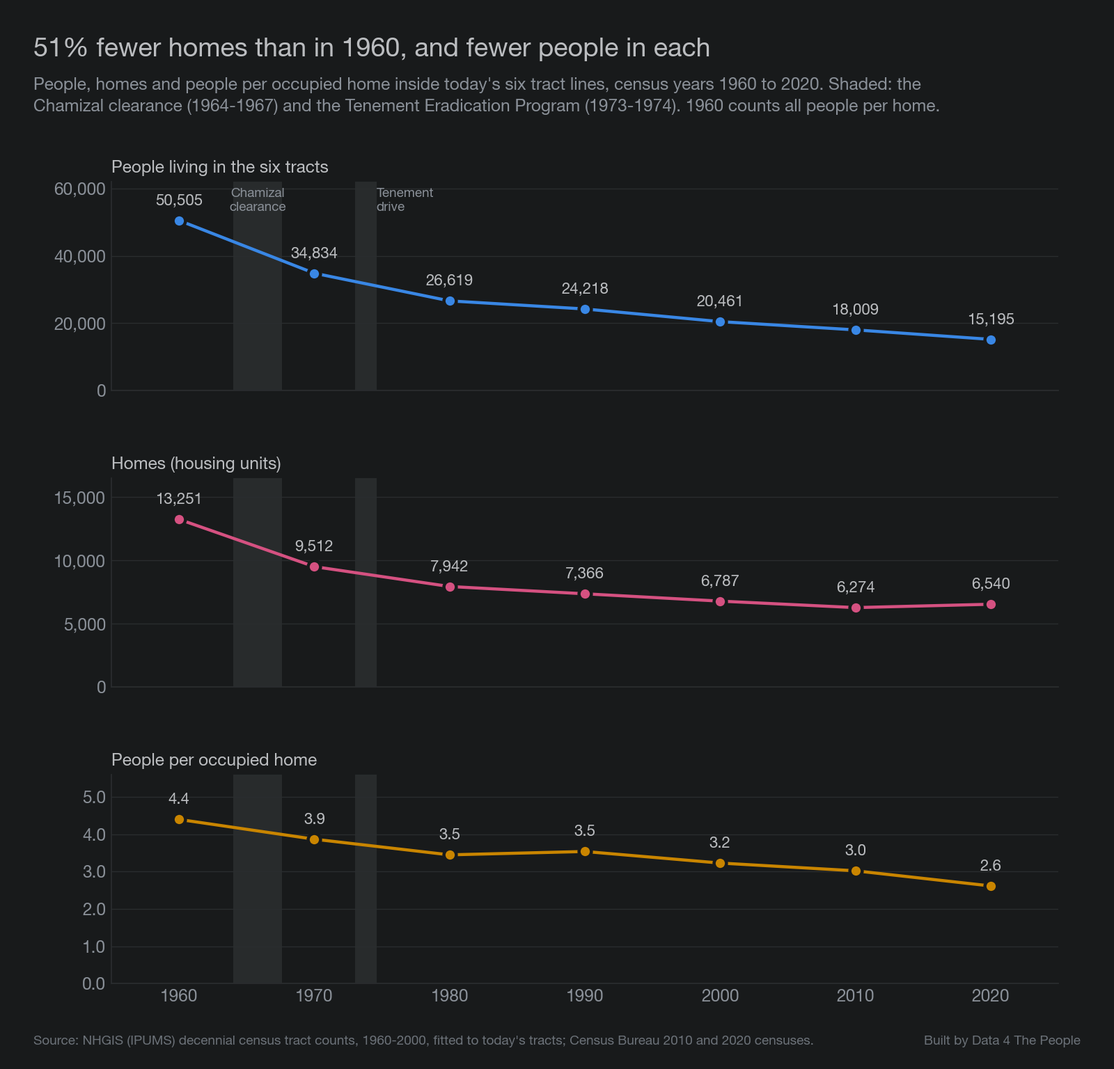
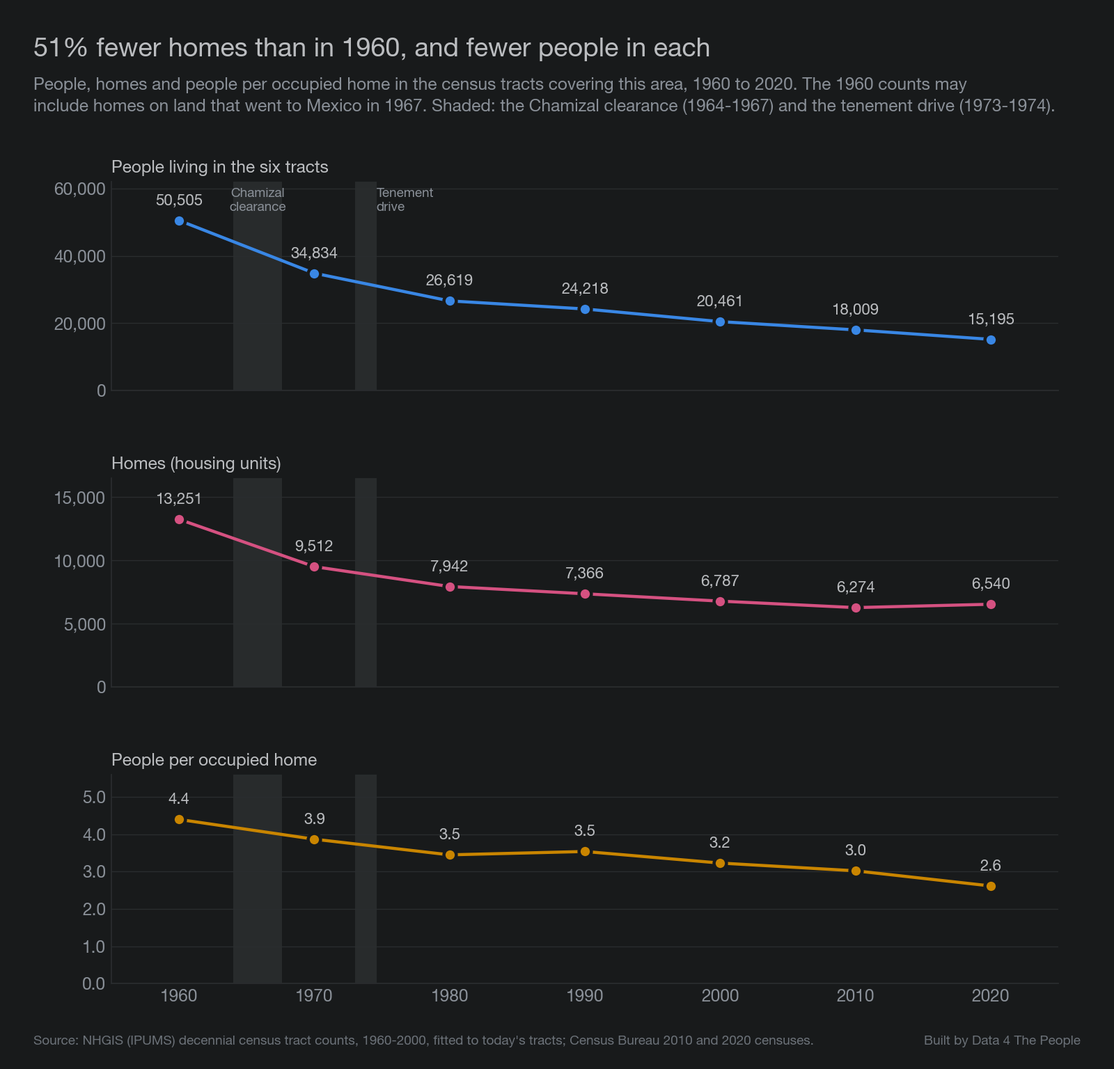
spotlight-el-segundo-barrio: apply independent tie-out fixes (59% U.S.-born poverty, proportion MOEs, 1960 border caveat, citations, three overstated claims, wording)

Changed region(s): [[0.0312, 0.0625, 0.875, 0.125], [0.9062, 0.0938, 0.9375, 0.125]]

diff --git a/scripts/99y_charts_elsegundo.py b/scripts/99y_charts_elsegundo.py
@@ -46,8 +46,8 @@ axs[0].annotate("Tenement\ndrive", (1974.6, 62000 * 0.97), ha="left", va="top", 
 axs[2].set_xlim(1955, 2025); axs[2].set_xticks([1960, 1970, 1980, 1990, 2000, 2010, 2020])
 ch_h = 100 * (1 - homes[2020] / homes[1960])
 titleblock(fig, f"{ch_h:.0f}% fewer homes than in 1960, and fewer people in each",
-           "People, homes and people per occupied home inside today's six tract lines, census years 1960 to 2020. Shaded: the\n"
-           "Chamizal clearance (1964-1967) and the Tenement Eradication Program (1973-1974). 1960 counts all people per home.")
+           "People, homes and people per occupied home in the census tracts covering this area, 1960 to 2020. The 1960 counts may\n"
+           "include homes on land that went to Mexico in 1967. Shaded: the Chamizal clearance (1964-1967) and the tenement drive (1973-1974).")
 credit(fig, "Source: NHGIS (IPUMS) decennial census tract counts, 1960-2000, fitted to today's tracts; Census Bureau 2010 and 2020 censuses.")
 fig.savefig(OUT / "02-people-homes.png"); plt.close(fig)
 
@@ -71,7 +71,8 @@ credit(fig, "Source: NHGIS (IPUMS) decennial census tract counts, 1960-2000, fit
 fig.savefig(OUT / "03b-crowding.png"); plt.close(fig)
 
 # 03c: poverty by birthplace
-pv = R[(R.period == "2020-2024") & R.measure.isin(["poverty_us_born_pct", "poverty_foreign_born_pct"])].set_index(["area", "measure"]).value
+pvr = R[(R.period == "2020-2024") & R.measure.isin(["poverty_us_born_pct", "poverty_foreign_born_pct"])].set_index(["area", "measure"])
+pv, pm = pvr.value, pvr.moe_pts
 fig, ax = plt.subplots(figsize=(10, 5.6)); fig.subplots_adjust(left=0.08, right=0.97, top=0.74, bottom=0.14)
 grp = [(ES, "El Segundo Barrio and Chamizal"), (CO, "El Paso County")]; w = 0.36
 for i, (area, lab) in enumerate(grp):
@@ -84,7 +85,7 @@ ax.yaxis.set_major_formatter(plt.FuncFormatter(lambda v, _: f"{v:.0f}%")); style
 ax.legend(loc="upper right", frameon=False, labelcolor=INK, fontsize=10)
 titleblock(fig, "People born in the U.S. here are as likely to be poor as immigrants",
            "Share of people below the poverty line, by place of birth, 2020-2024. In the six tracts, the margins of error\n"
-           "are about 10 points (U.S.-born) and 14 points (born outside the U.S.).")
+           f"are about {pm[(ES, 'poverty_us_born_pct')]:.0f} points (U.S.-born) and {pm[(ES, 'poverty_foreign_born_pct')]:.0f} points (born outside the U.S.).")
 credit(fig, "Source: Census Bureau, American Community Survey 2020-2024 five-year estimates, table B17025, summed across the six tracts.")
 fig.savefig(OUT / "03c-poverty-birthplace.png"); plt.close(fig)
 

diff --git a/scripts/99u_elsegundo_recent.py b/scripts/99u_elsegundo_recent.py
@@ -12,6 +12,7 @@ Output: analysis/spotlight/recent_elsegundo.csv (area, period, measure, num, den
 """
 import sys
 from pathlib import Path
+import numpy as np
 import pandas as pd, requests
 sys.path.insert(0, str(Path.home() / ".claude/d4tp-process"))
 from d4tp_env import read_env_file
@@ -37,7 +38,16 @@ rows = []
 def add(period, d, tracts, measure, num, den):
     for area, dd in ((NAME, d[d.geoid.isin(tracts)]), (CMP, d)):
         n, t = dd[num].sum().sum(), dd[den].sum().sum()
-        rows.append(dict(area=area, period=period, measure=measure, num=round(float(n)), den=round(float(t)), value=round(100 * n / t, 1) if measure.endswith("_pct") else None))
+        row = dict(area=area, period=period, measure=measure, num=round(float(n)), den=round(float(t)),
+                   value=round(100 * n / t, 3) if measure.endswith("_pct") else None)  # 3 decimals: round once, at display
+        mn_c, md_c = [c[:-1] + "M" for c in num], [c[:-1] + "M" for c in den]
+        if measure.endswith("_pct") and all(c in dd for c in mn_c + md_c):
+            # ACS margins for summed tracts: root sum of squares, then the Census proportion formula
+            # (ratio formula if the term under the root is negative)
+            mn, md = np.sqrt((dd[mn_c] ** 2).sum().sum()), np.sqrt((dd[md_c] ** 2).sum().sum()); pr = n / t
+            q = mn ** 2 - pr ** 2 * md ** 2
+            row["moe_pts"] = round(100 * np.sqrt(q if q >= 0 else mn ** 2 + pr ** 2 * md ** 2) / t, 2)
+        rows.append(row)
 
 for period, path, tr, (hu, occ, hhp) in (("2010", "2010/dec/sf1", S10, ("H001001", "H003002", "P016001")),
                                           ("2020", "2020/dec/dhc", T20, ("H1_001N", "H3_002N", "P15_001N"))):
@@ -49,7 +59,7 @@ crowd = [f"B25014_{k:03d}E" for k in (5, 6, 7, 11, 12, 13)]
 for period, year, tr in (("2008-2012", 2012, S10), ("2020-2024", 2024, T20)):
     v = crowd + ["B25014_001E", "B25047_001E", "B25047_003E", "B05002_001E", "B05002_013E", "B17025_001E", "B17025_002E",
                  "B17025_004E", "B17025_006E", "B17025_011E", "B17025_013E", "B25001_001E", "B25002_002E", "B25008_001E"]
-    d = get(f"{year}/acs/acs5", v)
+    d = get(f"{year}/acs/acs5", v + [c[:-1] + "M" for c in v])
     add(period, d, tr, "crowded_pct", crowd, ["B25014_001E"])
     add(period, d, tr, "lacking_plumbing_pct", ["B25047_003E"], ["B25047_001E"])
     add(period, d, tr, "foreign_born_pct", ["B05002_013E"], ["B05002_001E"])

diff --git a/posts/spotlight-el-segundo-barrio/POST.md b/posts/spotlight-el-segundo-barrio/POST.md
@@ -74,7 +74,7 @@ The map below shows those grades with the six tracts in this story outlined.
 
 ::: spacer 5px
 
-El Paso's first public housing went up near the barrio. The Alamito project opened in 1940 with 349 units, just outside the historic district. The Tays project, in Chamizal, opened in 1941 with 359 units and is the city's oldest public housing still in use ([National Register nomination, p. 136](https://atlas.thc.texas.gov/NR/pdfs/100006994/100006994.pdf); [City of El Paso, Chamizal plan, 2008, p. 21](https://www.elpasotexas.gov/assets/Documents/CoEP/Community-Development/Neighborhood-Associations/Neighborhood-Revitalization/CHAMIZAL-NRS.pdf)).
+El Paso's first public housing went up near the barrio. The Alamito project opened in 1940 with 349 units, just outside the historic district. The Tays project, in Chamizal, opened in 1941 with 359 units and is the city's oldest public housing ([National Register nomination, p. 136](https://atlas.thc.texas.gov/NR/pdfs/100006994/100006994.pdf); [City of El Paso, Chamizal plan, 2008, p. 21](https://www.elpasotexas.gov/assets/Documents/CoEP/Community-Development/Neighborhood-Associations/Neighborhood-Revitalization/CHAMIZAL-NRS.pdf)).
 
 In 1946 and 1947, the city widened Paisano Drive, part of U.S. 80. The widening destroyed nearby properties and moved out as many as 6,000 residents. The National Register nomination says this led to more shacks being built elsewhere in the barrio. By the 1950s, Paisano was a fast road that was dangerous to cross on foot ([National Register nomination, p. 122](https://atlas.thc.texas.gov/NR/pdfs/100006994/100006994.pdf); [City of El Paso, Chamizal plan, 2008, p. 6](https://www.elpasotexas.gov/assets/Documents/CoEP/Community-Development/Neighborhood-Associations/Neighborhood-Revitalization/CHAMIZAL-NRS.pdf)).
 
@@ -82,9 +82,9 @@ In 1946 and 1947, the city widened Paisano Drive, part of U.S. 80. The widening 
 
 ::: spacer 5px
 
-On Aug. 29, 1963, the United States and Mexico signed the Chamizal Convention to settle a long border dispute. The Rio Grande was moved into a new concrete channel 4.34 miles long. About 630 acres went to Mexico and 193 acres to the United States ([Chamizal Convention, 1963](https://www.nps.gov/cham/learn/historyculture/chamizalconvention.htm); [National Park Service](https://www.nps.gov/cham/learn/historyculture/implementation.htm)). The federal boundary commission counts the net change as 437 acres to Mexico ([International Boundary and Water Commission](https://www.ibwc.gov/treaties/)).
+On Aug. 29, 1963, the United States and Mexico signed the Chamizal Convention to settle a long border dispute. About 630 acres went to Mexico and 193 acres to the United States ([Chamizal Convention, 1963](https://www.nps.gov/cham/learn/historyculture/chamizalconvention.htm); [National Park Service](https://www.nps.gov/cham/learn/historyculture/implementation.htm)). The Rio Grande was moved into a new concrete channel 4.34 miles long, and the federal boundary commission puts the transfer at 437 acres to Mexico ([International Boundary and Water Commission](https://www.ibwc.gov/treaties/)).
 
-Between 1964 and 1967, one third of the Second Ward's land was cleared, including 1,155 homes rated substandard. Owners were paid and scattered across the city. Renters mostly stayed within half a mile, so the rest of South El Paso gained 1,804 people and only two new housing units ([National Register nomination, p. 143](https://atlas.thc.texas.gov/NR/pdfs/100006994/100006994.pdf)).
+Between 1964 and 1967, one third of the Second Ward's land was cleared, including 1,155 homes rated marginal or substandard. Owners were paid and scattered across the city. Renters mostly stayed within half a mile, so the rest of South El Paso gained 1,804 people and only two new housing units ([National Register nomination, p. 143](https://atlas.thc.texas.gov/NR/pdfs/100006994/100006994.pdf)).
 
 The land formally passed to Mexico at 12:01 a.m. on Oct. 28, 1967 ([Chamizal Declaration, 1967](https://presidency.ucsb.edu/documents/text-the-chamizal-declaration-recognizing-the-transfer-lands-between-the-united-states-and)). About 5,600 people were moved out. Neighborhoods including Rio Linda, Cordova Gardens, Cotton Mill and El Jardín were removed, along with the two southernmost blocks of Segundo Barrio ([National Park Service](https://www.nps.gov/cham/learn/historyculture/implementation.htm); [Handbook of Texas](https://www.tshaonline.org/handbook/entries/chamizal-dispute)).
 
@@ -108,22 +108,22 @@ Crowding has fallen a long way since then. In 1960, 54% of occupied homes here h
 
 Some homes still lack basic plumbing. In 2020-2024, about 6.5% of homes here lacked complete plumbing, compared with 1.6% in the county. The margin of error is wide, from about 4% to 9% ([Census Bureau, American Community Survey 2020-2024](https://data.census.gov/table/ACSDT5Y2024.B25047)).
 
-The chart below counts the people and homes inside today's six tract lines in each census, and how many people lived in each occupied home.
+The chart below counts the people and homes in the census tracts covering this area in each census, and how many people lived in each occupied home. The 1960 tract lines are drawn to today's border, so the 1960 counts may include homes on land that went to Mexico in 1967.
 
-![Three stacked line charts for the six census tracts, census years 1960 to 2020. People: 50,505, 34,834, 26,619, 24,218, 20,461, 18,009 and 15,195. Homes: 13,251, 9,512, 7,942, 7,366, 6,787, 6,274 and 6,540. People per occupied home: 4.4, 3.9, 3.5, 3.5, 3.2, 3.0 and 2.6. The Chamizal clearance (1964-1967) and the tenement drive (1973-1974) are shaded.](images/02-people-homes.png)
+![Three stacked line charts for the six census tracts, census years 1960 to 2020. People: 50,505, 34,834, 26,619, 24,218, 20,461, 18,009 and 15,195. Homes: 13,251, 9,512, 7,942, 7,366, 6,787, 6,274 and 6,540. People per occupied home: 4.4, 3.9, 3.5, 3.5, 3.2, 3.0 and 2.6. The Chamizal clearance (1964-1967) and the tenement drive (1973-1974) are shaded. The 1960 counts may include homes on land that went to Mexico in 1967.](images/02-people-homes.png)
 *Earlier counts are fitted to today's tract lines. 2010 and 2020 are census counts.*
 
-In 1960, about 50,500 people lived here, in about 13,300 homes. By 1970, there were about 34,800 people. By 2020, there were about 6,500 homes, 51% fewer than in 1960. From 1960 to 1980, most of the drop in people came from fewer occupied homes, not from smaller households. Since 2000, it has been the other way around. Households shrank from 3.2 people per home in 2000 to 2.6 in 2020, and the number of homes rose a little after 2010.
+In 1960, the census tracts covering this area, which may include land that later went to Mexico, held about 50,500 people in about 13,300 homes. By 1970, there were about 34,800 people. By 2020, there were about 6,500 homes, 51% fewer than in 1960. From 1960 to 1980, most of the drop in people came from fewer occupied homes, not from smaller households. Since 2000, it has been the other way around. Households shrank from 3.2 people per home in 2000 to 2.6 in 2020, and the total number of homes rose a little after 2010, though fewer were occupied.
 
-The National Register nomination says over half of the Second Ward's housing was gone by the early 1970s. Our six tracts cover a larger area. In them, about 28% of homes were gone by 1970 and 40% by 1980.
+The National Register nomination says over half of the Second Ward's housing was gone by the early 1970s. Our six tracts cover a larger area. In them, about 28% of homes were gone by 1970 and 40% by 1980, counting any homes on land that went to Mexico.
 
 ## Garment jobs
 
 ::: spacer 5px
 
-In May 1972, about 4,000 workers at Farah Manufacturing, 85% of them women, went on strike for union representation. Farah was then El Paso's second-largest employer. The strike ended when the workers won their union in March 1974 ([Handbook of Texas, Farah strike](https://www.tshaonline.org/handbook/entries/farah-strike)). Farah laid off about 5,000 workers from 1974 to 1977, and by 1994 it had 3,000 workers in El Paso ([Handbook of Texas, Farah Inc.](https://www.tshaonline.org/handbook/entries/farah-incorporated)).
+In May 1972, about 4,000 workers at Farah Manufacturing, 85% of them women, went on strike for union representation. Farah was then El Paso's second-largest employer. The strike ended when the workers won their union in March 1974 ([Handbook of Texas, Farah strike](https://www.tshaonline.org/handbook/entries/farah-strike)). Farah later laid off about 5,000 workers, and by 1994 it had 3,000 workers in El Paso ([Handbook of Texas, Farah Inc.](https://www.tshaonline.org/handbook/entries/farah-incorporated)).
 
-Clothing jobs in El Paso County fell from 16,150 in 1990 to 1,310 in 2019, a drop of 92% ([Bureau of Labor Statistics, 1990](https://data.bls.gov/cew/data/files/1990/csv/1990_annual_by_area.zip); [2019](https://data.bls.gov/cew/data/api/2019/a/area/48141.csv)). The North American Free Trade Agreement took effect in 1994. The Federal Reserve Bank of Dallas wrote that NAFTA "likely accelerated" the move of clothing work to lower-cost countries. By early 2002, VF Jeanswear had laid off about 1,180 workers, and Levi Strauss had announced it would close its last El Paso sewing plant, with 780 workers. A decade earlier, Levi had six plants and about 6,000 workers in El Paso ([Federal Reserve Bank of Dallas, 2002](https://fraser.stlouisfed.org/files/docs/publications/frbdal_bus/frbdal_bus_2002_iss1.pdf); [U.S. Department of Labor, 1999](https://www.govinfo.gov/content/pkg/FR-1999-12-21/html/99-32992.htm)).
+Clothing jobs in El Paso County fell from 16,150 in 1990 to 1,310 in 2019, a drop of 92% ([Bureau of Labor Statistics, 1990](https://data.bls.gov/cew/data/files/1990/csv/1990_annual_by_area.zip); [2019](https://data.bls.gov/cew/data/api/2019/a/area/48141.csv)). The North American Free Trade Agreement took effect in 1994. The Federal Reserve Bank of Dallas wrote that NAFTA "likely accelerated" the move of clothing work to lower-cost countries. By early 2002, VF Jeanswear had laid off about 1,180 workers, and Levi Strauss had announced it would close its last El Paso sewing plant, with 780 workers. A decade earlier, Levi had six plants and about 6,000 workers in El Paso ([Federal Reserve Bank of Dallas, 2002](https://fraser.stlouisfed.org/files/docs/publications/frbdal_bus/frbdal_bus_2002_iss1.pdf)).
 
 These are county jobs, and the National Register nomination says many garment workers crossed daily from Juárez. But census counts show how many people living here worked in manufacturing, which includes clothing. In 1970 and 1980, about 30% of working residents in the six tracts had manufacturing jobs, compared with 17% to 19% across El Paso County. By 2020-2024, it was 9%. Over the same years, the number of working residents fell from about 8,300 in 1970 to about 4,300 ([NHGIS](https://www.nhgis.org/); [Census Bureau, American Community Survey 2020-2024](https://data.census.gov/table/ACSDT5Y2024.C24050)).
 
@@ -156,10 +156,10 @@ The census numbers do not fit that explanation well today. In every census from 
 
 Poverty here is also not limited to newcomers. The chart below compares the poverty rate of people born in the United States with that of people born in another country.
 
-![Bar chart of the share of people below the poverty line by place of birth, 2020-2024. El Segundo Barrio and Chamizal: born in the U.S. 58%, born outside the U.S. 57%. El Paso County: born in the U.S. 18%, born outside the U.S. 23%.](images/03c-poverty-birthplace.png)
-*In the six tracts, margins of error are about 10 points for people born in the U.S. and 14 points for people born elsewhere.*
+![Bar chart of the share of people below the poverty line by place of birth, 2020-2024. El Segundo Barrio and Chamizal: born in the U.S. 59%, born outside the U.S. 57%. El Paso County: born in the U.S. 18%, born outside the U.S. 23%.](images/03c-poverty-birthplace.png)
+*In the six tracts, margins of error are about 7 points for people born in the U.S. and 11 points for people born elsewhere.*
 
-About 58% of people born in the U.S. who live here are below the poverty line, compared with 18% in the county ([Census Bureau, American Community Survey 2020-2024](https://data.census.gov/table/ACSDT5Y2024.B17025)). These numbers cannot follow families over time. But they show that poverty here is shared by people born here as much as by people who came from Mexico.
+About 59% of people born in the U.S. who live here are below the poverty line, compared with 18% in the county ([Census Bureau, American Community Survey 2020-2024](https://data.census.gov/table/ACSDT5Y2024.B17025)). These numbers cannot follow families over time. But they show that poverty here is shared by people born here as much as by people who came from Mexico.
 
 ## Health
 
@@ -186,9 +186,9 @@ Almost a third of adults here have diabetes, and more than half say their health
 ![Bar chart of the share of people ages 19 to 64 with no health insurance, 2020-2024: El Segundo Barrio and Chamizal 58%, El Paso County 30%, Texas 23%, United States 12%.](images/07-uninsured.png)
 *The margin of error in the six tracts is about 8 points.*
 
-Children here are in a different position. About 78% of children are covered by Medicaid or the Children's Health Insurance Program, and 16% are uninsured. Among adults ages 19 to 64, only 15% have Medicaid, and 11% have coverage only through an employer, compared with 57% nationwide ([Census Bureau, American Community Survey 2020-2024](https://data.census.gov/table/ACSDT5Y2024.B27010); [table C27007](https://data.census.gov/table/ACSDT5Y2024.C27007)).
+Children here are in a different position. About 78% of children are covered by Medicaid or the Children's Health Insurance Program, and 16% are uninsured. Among adults ages 19 to 64, 15% have Medicaid, about the national rate, and 11% have coverage only through an employer, compared with 57% nationwide ([Census Bureau, American Community Survey 2020-2024](https://data.census.gov/table/ACSDT5Y2024.B27010); [table C27007](https://data.census.gov/table/ACSDT5Y2024.C27007)).
 
-Part of the reason is how Texas's Medicaid rules work. Texas did not expand Medicaid under the Affordable Care Act. KFF reports that "Texas has the nation's lowest eligibility threshold for parents at 15% FPL," which bars parents in a family of three earning more than $4,098 a year. In states that did not expand, adults under 65 without dependent children generally cannot get Medicaid at any income, apart from Wisconsin and Georgia ([KFF, 2026](https://www.kff.org/medicaid/issue-brief/the-coverage-gap-uninsured-poor-adults-in-states-that-do-not-expand-medicaid/)). Federal subsidies for marketplace plans begin at the poverty line, so many adults below it fall into a gap between the two programs. In these six tracts, 58% of people live below the poverty line. Those original subsidies remain. But the larger subsidies Congress added in 2021 expired at the end of 2025, so people above the poverty line now pay more for marketplace plans, and enrollment has fallen ([KFF, 2026](https://www.kff.org/affordable-care-act/9-things-to-watch-for-the-2027-aca-open-enrollment-period/)).
+Part of the reason is how Texas's Medicaid rules work. Texas did not expand Medicaid under the Affordable Care Act. KFF reports that "Texas has the nation's lowest eligibility threshold for parents at 15% FPL," which bars parents in a family of three earning more than $4,098 a year. In states that did not expand, adults under 65 without dependent children generally cannot get Medicaid at any income, apart from Wisconsin and Georgia ([KFF, 2026](https://www.kff.org/medicaid/issue-brief/the-coverage-gap-uninsured-poor-adults-in-states-that-do-not-expand-medicaid/)). Federal subsidies for marketplace plans begin at the poverty line, so many adults below it fall into a gap between the two programs. In these six tracts, 58% of people live below the poverty line. Those original subsidies remain. But the larger subsidies Congress added in 2021 expired at the end of 2025, which raised premiums for most people with marketplace plans, and enrollment has fallen ([KFF coverage gap, 2026](https://www.kff.org/medicaid/issue-brief/the-coverage-gap-uninsured-poor-adults-in-states-that-do-not-expand-medicaid/); [KFF 2027 enrollment, 2026](https://www.kff.org/affordable-care-act/9-things-to-watch-for-the-2027-aca-open-enrollment-period/)).
 
 Federal rules are changing in 2026 and 2027. The Medicaid work requirements in the 2025 federal budget law, which start in January 2027, apply to adults covered through the Medicaid expansion ([KFF](https://www.kff.org/medicaid/issue-brief/health-provisions-in-the-2025-federal-budget-reconciliation-law/); [Centers for Medicare & Medicaid Services, 2025](https://www.medicaid.gov/federal-policy-guidance/downloads/cib12082025.pdf)). Because Texas has no expansion group, the adults who would face them in other states are mostly uninsured here already. Changes for immigrants do apply in Texas. Since Oct. 1, 2026, federal Medicaid and CHIP funding for lawfully present immigrants has been limited mostly to green card holders. Before then, other groups could qualify, including refugees and people granted asylum who did not yet have a green card ([KFF](https://www.kff.org/immigrant-health/implementation-of-medicaid-immigrant-eligibility-restrictions-under-the-2025-reconciliation-law-issues-to-consider/)). On Jan. 1, 2027, marketplace subsidies narrow to the same groups ([Georgetown University Center for Children and Families, 2025](https://ccf.georgetown.edu/2025/10/01/new-immigrant-eligibility-restrictions-coming-to-federally-funded-health-coverage/)). About 36% of people here were born outside the U.S., and 48% of residents who are not citizens are already uninsured. Census data do not show immigration status in enough detail to count how many people here these changes reach.
 
@@ -199,7 +199,7 @@ Federal rules are changing in 2026 and 2027. The Medicaid work requirements in t
 ::: spacer 5px
 
 - **The neighborhood.** El Segundo Barrio and Chamizal here are six 2020 census tracts in El Paso County, Texas: 48141001800, 48141001900, 48141002000, 48141002800, 48141002900 and 48141003000. All six are in the bottom 20% of U.S. tracts on both median household income and our health index. Tract 48141003000 lies just east of the city's Chamizal boundary.
-- **Then and now.** Census counts from 1970 to 2010 come from [NHGIS (IPUMS)](https://www.nhgis.org/) and are fitted to today's tract lines. 2020-2024 numbers are from the Census Bureau's [American Community Survey](https://www.census.gov/programs-surveys/acs) five-year estimates.
+- **Then and now.** Census counts from 1960 to 2010 come from [NHGIS (IPUMS)](https://www.nhgis.org/) and are fitted to today's tract lines. 2020-2024 numbers are from the Census Bureau's [American Community Survey](https://www.census.gov/programs-surveys/acs) five-year estimates.
 - **The table at the top.** Rates are computed from counts summed across the six tracts. Median household income is estimated from income ranges, the Census Bureau's method for combined areas. Health measures are [CDC PLACES](https://www.cdc.gov/places/) model estimates for adults, weighted by each tract's adult population. Life expectancy is from the [U.S. Small-Area Life Expectancy Estimates Project](https://www.cdc.gov/nchs/nvss/usaleep/usaleep.html), 2010-2015.
 - **The map.** Grades are from [Mapping Inequality](https://dsl.richmond.edu/panorama/redlining/). The map itself is undated; Mapping Inequality files it under 1936.
 - **Clothing jobs.** Bureau of Labor Statistics [Quarterly Census of Employment and Wages](https://www.bls.gov/cew/), El Paso County, private apparel manufacturing (NAICS 315), annual averages.

diff --git a/DATASETS.md b/DATASETS.md
@@ -501,9 +501,9 @@ Share of people whose family income is under twice the federal poverty line, for
 
 ### El Segundo Barrio: homes, crowding, birthplace, diabetes and the 1955 river (scripts 98 for U028, 99e, 99h, 99t-99y)
 
-- **Homes and people per home, 1960-2020.** NHGIS tract tables (`scripts/99t_fetch_nhgis_housing_nativity.py`): 1960 total housing units (CA5) and occupied units by persons in unit (CAS); NHGIS nominal time series A41 (housing units), A43 (occupancy), AU9 (group quarters) and AT5 (nativity) for 1970-2000; 2010 SF1 and 2020 DHC counts (H001/H1 units, H003/H3 occupied, P016/P15 people in households) from the Census API (`scripts/99u_elsegundo_recent.py`). People per occupied home = people in households / occupied homes; 1960 uses all people because the extract has no 1960 group quarters count. 1960 population is from `scripts/98_population_early.py U028` (fit 0.942). Geography as in the other then-and-now numbers: map overlay for 1960-1980, NHGIS crosswalks to 2010 tracts for 1990-2000 (household weights for homes, population weights for people). The split of the drop in people in households into fewer homes and fewer people per home uses logs (ln ratio of homes over ln ratio of people).
-- **Crowding and plumbing.** More than 1.00 person per room, share of occupied homes: 1960 B76, 1970 CV7, 1980 C8G, 1990 ESP, 2000 GA3, ACS B25014. Plumbing definitions change across censuses (1960 counts homes lacking or sharing hot water, a private toilet, bath or running water; later years count homes lacking complete plumbing), so only the direction of the trend is used. ACS 2020-2024 B25047: 423 homes lacking complete plumbing, margin of error about 143.
-- **Birthplace and moving.** Foreign born: 1960 B8J (foreign stock table), AT5 1970-2000, ACS B05002. Same home five years earlier: 1960 B8U, 1970 C15, 1980 DG7, 1990 E3O, 2000 GJG. Recent arrivals: 1990 E3F, 2000 GJE, ACS B05005. Poverty by place of birth: ACS B17025 (2008-2012 and 2020-2024), summed across the tracts; margins of error for the 2020-2024 shares combined as root sum of squares (about 10 points for U.S.-born, 14 for foreign-born). ACS B07003 (same home a year earlier) and B25038 (year householder moved in) for 2020-2024.
+- **Homes and people per home, 1960-2020.** NHGIS tract tables (`scripts/99t_fetch_nhgis_housing_nativity.py`): 1960 total housing units (CA5) and occupied units by persons in unit (CAS); NHGIS nominal time series A41 (housing units), A43 (occupancy), AU9 (group quarters) and AT5 (nativity) for 1970-2000; 2010 SF1 and 2020 DHC counts (H001/H1 units, H003/H3 occupied, P016/P15 people in households) from the Census API (`scripts/99u_elsegundo_recent.py`). People per occupied home = people in households / occupied homes; 1960 uses all people because the extract has no 1960 group quarters count. 1960 population is from `scripts/98_population_early.py U028` (fit 0.942). NHGIS draws the 1960 tract shapes to today's border, so the overlay cannot see land along the old river channel that went to Mexico in 1967; the 1960 counts may include homes there, and the post says so. Geography as in the other then-and-now numbers: map overlay for 1960-1980, NHGIS crosswalks to 2010 tracts for 1990-2000 (household weights for homes, population weights for people). The split of the drop in people in households into fewer homes and fewer people per home uses logs (ln ratio of homes over ln ratio of people).
+- **Crowding and plumbing.** More than 1.00 person per room, share of occupied homes: 1960 B76, 1970 CV7, 1980 C8G, 1990 ESP, 2000 GA3, ACS B25014. Plumbing definitions change across censuses (1960 counts homes lacking or sharing hot water, a private toilet, bath or running water; later years count homes lacking complete plumbing), so only the direction of the trend is used. ACS 2020-2024 B25047: 423 homes lacking complete plumbing (margin of error about 143), 6.5% with a margin of about 2.2 points.
+- **Birthplace and moving.** Foreign born: 1960 B8J (foreign stock table), AT5 1970-2000, ACS B05002. Same home five years earlier: 1960 B8U, 1970 C15, 1980 DG7, 1990 E3O, 2000 GJG. Recent arrivals: 1990 E3F, 2000 GJE, ACS B05005. Poverty by place of birth: ACS B17025 (2008-2012 and 2020-2024), summed across the tracts; margins of error: root sum of squares of the tract margins for numerator and denominator, then the Census Bureau proportion formula (ratio formula if the term under the root is negative). 2020-2024: about 7 points for U.S.-born, 11 for foreign-born; plumbing 2.2 points (about 4.3% to 8.6%). Shares are stored to three decimals and rounded only for display. ACS B07003 (same home a year earlier) and B25038 (year householder moved in) for 2020-2024.
 - **Diabetes and age** (`scripts/99v_diabetes_age_elsegundo.py`). PLACES gives tract diabetes only as a crude rate, so we use indirect standardization: Texas BRFSS 2023 diabetes rates by age group (data.cdc.gov dttw-5yxu) applied to the neighborhood's adults by age (ACS 2020-2024 B01001). BRFSS suppresses Texas ages 18-24 in 2023; that group gets the 25-34 rate. The observed rate is the PLACES 2025 tract estimate weighted by PLACES adult population, as in chart 04. PLACES itself is a model that uses age, sex, race and ethnicity, so its estimate already reflects the age mix.
 - **Manufacturing share of working residents and work, 1960-2020-2024**: `scripts/99h_industry_spotlight.py U028` and `scripts/99e_labor_spotlight.py U028`, same method as North Birmingham.
 - **River map** (`scripts/99w_river_map_elsegundo.py`). USGS Historical Topographic Map Collection, El Paso, Tex. and Ysleta NW, Tex.-Chih., 1:24,000, both 1955 (public domain), joined at latitude 31 deg 45 min and warped to UTM zone 13N. Today's border is the Texas outline from the Census Bureau's 2020 cartographic state file (1:500,000, so it is generalized). The westernmost tip of the tracts lies off the El Paso sheet.

diff --git a/TIEOUT.md b/TIEOUT.md
@@ -220,7 +220,8 @@ Code and output: `analysis/spotlight/independent/check.py`, `results.csv` and `R
 | North Birmingham work, jobs, home values (new section The jobs next door) | Scripts print pivots; county home value medians checked against published ACS B25077 | With a job 42.7/55.0 (1980), 43.4/58.6 (2020-24); prime age 64.2/78.1; LFP 51.2 -> 46.4; unemployment 16.6 (1980), 29.3 (2008-12), 6.5 (2020-24); jobs in tracts held by residents 346/10,211 (2002), 128/6,617 (2022); mfg share of employed residents 26.0/18.4 (1980), 10.0/8.7 (2020-24); median value 2024$ 78,000/149,300 (1980), 72,900/240,000 (2020-24); county ACS check 142,307 vs 142,300 (2012), 240,030 vs 240,000 (2024) |
 | North Birmingham food insecurity | Script prints | FOODINSECU 54.5 (North Birmingham), 49.5 (West Baltimore), 46.6 (West Dayton), 17.2 (U.S., 40 states) |
 | North Birmingham schools | Script prints yearly counts | Regular schools inside the tracts and students: 10 and 4,423 (1986-87); 8 and 3,434 (1990-91); 7 and 3,111 (2000-01); 4 and 2,352 (2010-11); 2 and 1,280 (2020-21); 3 and 1,518 (2023-24, incl. i3 Academy charter, 420) |
-| El Segundo homes, people per home, crowding, birthplace (charts 02-people-homes, 03b, 03c) | Scripts print each series; 2020 decennial counts checked against 2020-2024 ACS for size | Homes 13,251 (1960), 9,512, 7,942, 7,366, 6,787, 6,274 (2010), 6,540 (2020); people per occupied home 4.40, 3.87, 3.45, 3.54, 3.23, 3.02, 2.62; population 1960 50,505 (fit 0.942); crowded 54.4/25.1 (1960), 8.8/5.3 (2020-24); poverty U.S.-born 58.5 (MOE 10.1), foreign-born 57.2 (MOE 14.0), county 17.5/23.2; same home 5 years earlier 41.2/31.7 (1960), 55.9/55.2 (2000); foreign-born arrived 2010 or later 22.4/22.9; split of 1960-2020 drop: homes 57%, people per home 43% |
+| El Segundo homes, people per home, crowding, birthplace (charts 02-people-homes, 03b, 03c) | Scripts print each series; 2020 decennial counts checked against 2020-2024 ACS for size | Homes 13,251 (1960), 9,512, 7,942, 7,366, 6,787, 6,274 (2010), 6,540 (2020); people per occupied home 4.40, 3.87, 3.45, 3.54, 3.23, 3.02, 2.62; population 1960 50,505 (fit 0.942); crowded 54.4/25.1 (1960), 8.8/5.3 (2020-24); poverty U.S.-born 58.51 (5,412/9,249; MOE 6.9), foreign-born 57.2 (MOE 10.6), county 17.5/23.2; same home 5 years earlier 41.2/31.7 (1960), 55.9/55.2 (2000); foreign-born arrived 2010 or later 22.4/22.9; split of 1960-2020 drop: homes 57%, people per home 43% |
 | El Segundo diabetes and age (chart 04b) | Script prints | 65+ share 28.7 vs 17.7; expected at Texas 2023 rates 14.2; PLACES observed 31.5 (county 16.2, expected 12.0) |
 | El Segundo manufacturing share and work | Scripts print pivots | Manufacturing share of working residents 30.3/17.3 (1970), 30.1/18.8 (1980), 8.8/6.5 (2020-24); working residents 8,273 (1970), 4,291 (2020-24); with a job 47.2 (1960), 32.1 (2000), 38.7 vs county 59.0 (2020-24); prime age 58.3 vs 75.9 |
 | El Segundo health insurance (chart 07, Sick and uninsured) | Script prints a measure-by-area pivot with margins of error | Uninsured 19-64: 58.2 (MOE 7.6) / 30.5 / 22.8 / 11.7 (El Segundo, county, Texas, U.S.); children uninsured 15.9, on Medicaid 77.9; adults on Medicaid 15.1; employer-only 19-64 10.7 vs U.S. 57.3; noncitizens uninsured 48.4 (MOE 13.4); KFF 15% FPL and $4,098 quote checked on the page; work requirement scope checked on KFF page (expansion group or waiver) |
+| El Segundo independent tie-out, 2026-11-26 (fresh agent, own code from raw ACS, NHGIS, PLACES, BRFSS, QCEW and source documents) | Every value in the post, charts, alt text; quotes and page cites; policy claims | All numbers matched except: U.S.-born poverty shown as 58% (58.51%, stored rounded then rounded again) **fixed** to 59%; 03c margins overstated (10/14) **fixed** to 7/11 with the proportion formula; 1960 counts may include land ceded in 1967 **noted** in chart and text; citation placement (4.34 miles to IBWC, "net" 437 removed, DOL 1999 dropped for Levi figures) **fixed**; three overstated claims (substandard, Tays "still in use", Farah 1974-77) **fixed**; homes after 2010 total vs occupied **fixed**; "only 15%" Medicaid **fixed**; subsidy end date link **fixed**. Texas Observer and El Paso Inc. checked by Claude on archived pages; Mapping Inequality and USALEEP not rechecked here (covered by the Nov. 19 tie-out). |
